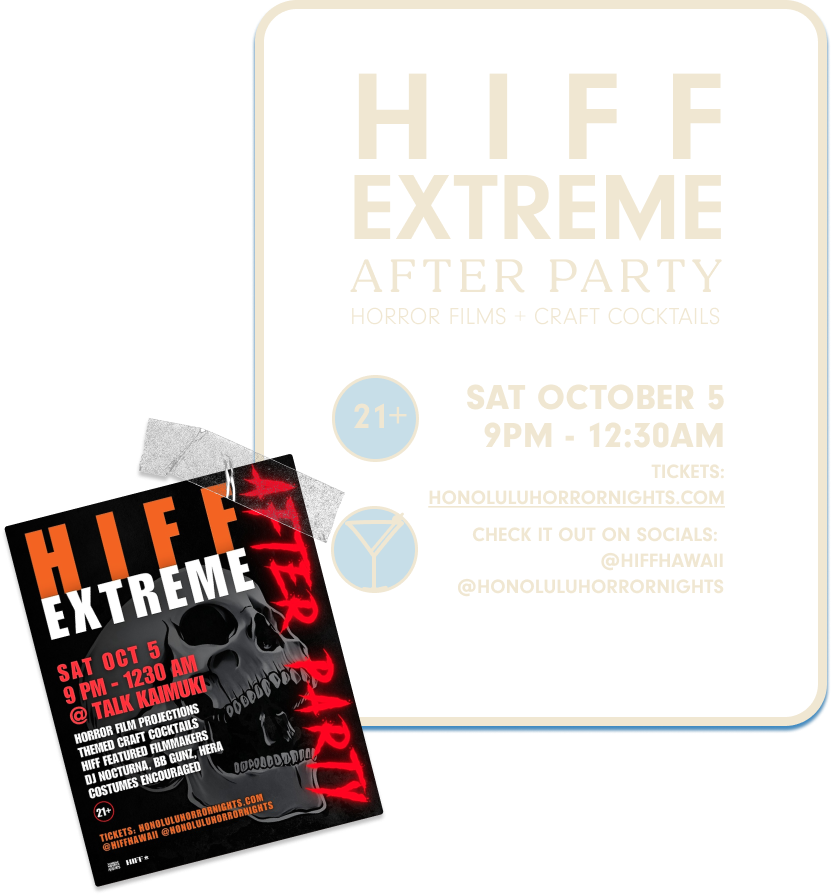
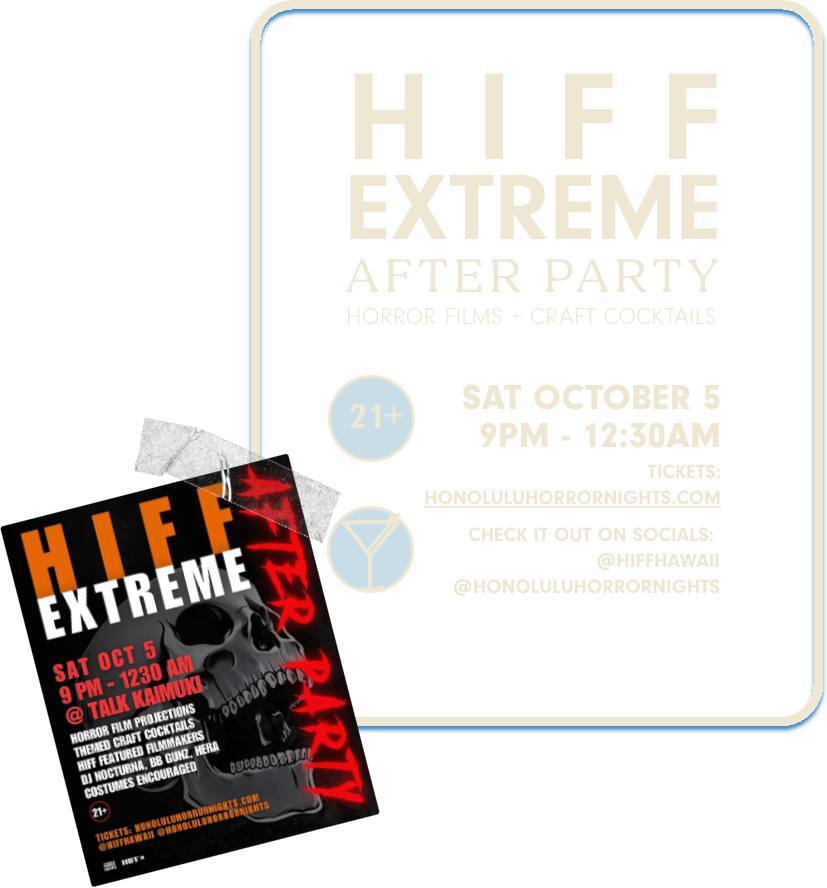
optimized images

diff --git a/index.html b/index.html
@@ -122,13 +122,13 @@
                 </div>
                 <div class="row observe-me work-on-mobilex">
                     <div class="one-third observe-me animate-from-left">
-                        <img class="left mini" src="img/daymenu-cup2.svg" alt="Coffee Cup" height="500" width="500">
+                        <img class="left mini" src="img/daymenu-cup2.png" alt="Coffee Cup" height="500" width="500">
                     </div>
                     <div class="one-third centered">
-                        <img class="day-menu" src="img/daymenu.svg" alt="Nitros, Teas, Lattes" height="838" width="571">
+                        <img class="day-menu" src="img/daymenu.png" alt="Nitros, Teas, Lattes" height="838" width="571">
                     </div>
                     <div class="one-third observe-me animate-from-right rightered">
-                        <img class="right mini" src="img/daymenu-cup1.svg" alt="Coffee Cup" height="500" width="500">
+                        <img class="right mini" src="img/daymenu-cup1.png" alt="Coffee Cup" height="500" width="500">
                     </div>
 
                   
@@ -145,13 +145,13 @@
             </div>
             <div class="row observe-me work-on-mobilex">
                 <div class="one-third observe-me animate-from-left">
-                    <img class="mini" src="img/nightmenu-cup2.svg" alt="drink martini" height="900" width="600">
+                    <img class="mini" src="img/nightmenu-cup2.png" alt="drink martini" height="900" width="600">
                 </div>
                 <div class="one-third centered">
-                    <img class="day-menu" src="img/nightmenu.svg" alt="Lots of Drinks!" height="838" width="571">
+                    <img class="day-menu" src="img/nightmenu.png" alt="Lots of Drinks!" height="838" width="571">
                 </div>
                 <div class="one-third observe-me animate-from-right rightered">
-                    <img class="rightish mini" src="img/nightmenu-cup1.svg" alt="drink glass" height="600" width="700">
+                    <img class="rightish mini" src="img/nightmenu-cup1.png" alt="drink glass" height="600" width="700">
                 </div>
 
               
@@ -162,10 +162,10 @@
            <div class="container">
 
             <div class="lights">
-                <img class="coffeenow observe-me" src="img/day-lights-text.svg" alt="Coffee, Now Talk Later" height="500" width="300">
+                <img class="coffeenow observe-me" src="img/day-lights-text.png" alt="Coffee, Now Talk Later" height="500" width="300">
 
                 <div class="observe-me zoomup centered">
-                    <img src="img/day-lights.svg" alt="light balls" width="1763" height="1214.5">
+                    <img src="img/day-lights.png" alt="light balls" width="1763" height="1214.5">
                    
                 </div>
             </div>
@@ -179,7 +179,7 @@
                     <img class="talktails observe-me" src="img/night-lights-text.svg" alt="Serving Talk-Tails all night" height="500" width="300">
     
                     <div class="observe-me zoomup centered">
-                        <img src="img/night-lights.svg" alt="light balls" width="1763" height="1214.5">
+                        <img src="img/night-lights.png" alt="light balls" width="1763" height="1214.5">
                        
                     </div>
                 </div>
@@ -192,7 +192,7 @@
                
                 <div class="row observe-me centered">
                     <div class="one-half left fruit">
-                        <img src="img/day-pie.svg" alt="Fruit pies" width="400" height="400">
+                        <img src="img/day-pie.png" alt="Fruit pies" width="400" height="400">
                     </div>
                     <div class="one-half">
                         <img src="img/latest-event.svg" alt="Latest Event" height="400" width="700">
@@ -202,10 +202,10 @@
                 
                 <div class="row observe-me centered">
                     <div class="one-half">
-                        <img class="event_card" src="img/day-event-card.svg" alt="latest event" width="800" height="800">
+                        <img class="event_card" src="img/day-event-card.png" alt="latest event" width="800" height="800">
                     </div>
                     <div class="one-half right">
-                        <img class="event_cup" src="img/day-event-cup.svg" alt="cup" width="400" height="500">
+                        <img class="event_cup" src="img/day-event-cup.png" alt="cup" width="400" height="500">
                     </div>
                 </div>
             </div>
@@ -217,7 +217,7 @@
                
                 <div class="row observe-me centered">
                     <div class="one-half left fruit">
-                        <img src="img/night-event-drink1.svg" alt="Fruit pies" width="400" height="400">
+                        <img src="img/night-event-drink1.png" alt="Fruit pies" width="400" height="400">
                     </div>
                     <div class="one-half">
                         <img src="img/latest-event.svg" alt="Latest Event" height="400" width="700">
@@ -227,10 +227,10 @@
                 
                 <div class="row observe-me centered">
                     <div class="one-half">
-                        <img class="event_card" src="img/night-event-poster.svg" alt="latest event" width="800" height="800">
+                        <img class="event_card" src="img/night-event-poster.png" alt="latest event" width="800" height="800">
                     </div>
                     <div class="one-half right">
-                        <img class="event_cup" src="img/night-event-drink2.svg" alt="cup" width="400" height="500">
+                        <img class="event_cup" src="img/night-event-drink2.png" alt="cup" width="400" height="500">
                     </div>
                 </div>
             </div>
@@ -246,11 +246,11 @@
         
             <div class="card_container observe-me">
                 <div class="card">
-                            <img src="img/liz.svg" alt="who is talk?"  width="200" height="100">
+                            <img src="img/liz.png" alt="who is talk?"  width="200" height="100">
                 </div>
                 
                 <div class="card2">
-                        <img src="img/team.svg" alt="Who is shaking it up?"  width="200" height="100" >
+                        <img src="img/team.png" alt="Who is shaking it up?"  width="200" height="100" >
                 </div>
             </div>
         </section>
@@ -262,11 +262,11 @@
             </div> -->
             <div class="card_container observe-me">
                 <div class="card">
-                            <img src="img/liz.svg" alt="who is talk?"  width="200" height="100">
+                            <img src="img/liz.png" alt="who is talk?"  width="200" height="100">
                 </div>
                 
                 <div class="card2">
-                        <img src="img/brittany.svg" alt="Who is shaking it up?"  width="200" height="100" >
+                        <img src="img/brittany.png" alt="Who is shaking it up?"  width="200" height="100" >
                 </div>
             </div>
         </section>
@@ -277,11 +277,11 @@
        
             <div class="row">
                 <div class="one-half observe-me animate-from-left cake2">
-                    <img class="cake" src="img/day-footer-text-2.svg" alt="location/time" width="900" height="900">
+                    <img class="cake" src="img/day-footer-text-2.png" alt="location/time" width="900" height="900">
                 </div>
-                <div class="one-half observe-me animate-from-right cake3">
+                <div class="one-half observe-me animate-from-right cake">
                    
-                       <img class="rightx" src="img/day-footer-1.svg" alt="barista" width="700" height="900">
+                       <img class="rightx" src="img/day-footer-1.png" alt="barista" width="700" height="900">
                     
                 </div>
             </div>
@@ -292,10 +292,10 @@
        
         <div class="row">
             <div class="one-half observe-me animate-from-left">
-                <img class="cake" src="img/night-footer-text-2.svg" alt="location/time" width="900" height="900">
+                <img class="cake" src="img/night-footer-text-2.png" alt="location/time" width="900" height="900">
             </div>
             <div class="one-half observe-me animate-from-right ">
-                   <img class="rightx cake3" src="img/night-footer-1.svg" alt="barista" width="700" height="900">
+                   <img class="rightx cake3" src="img/night-footer-1.png" alt="barista" width="700" height="900">
                 
             </div>
         </div>
